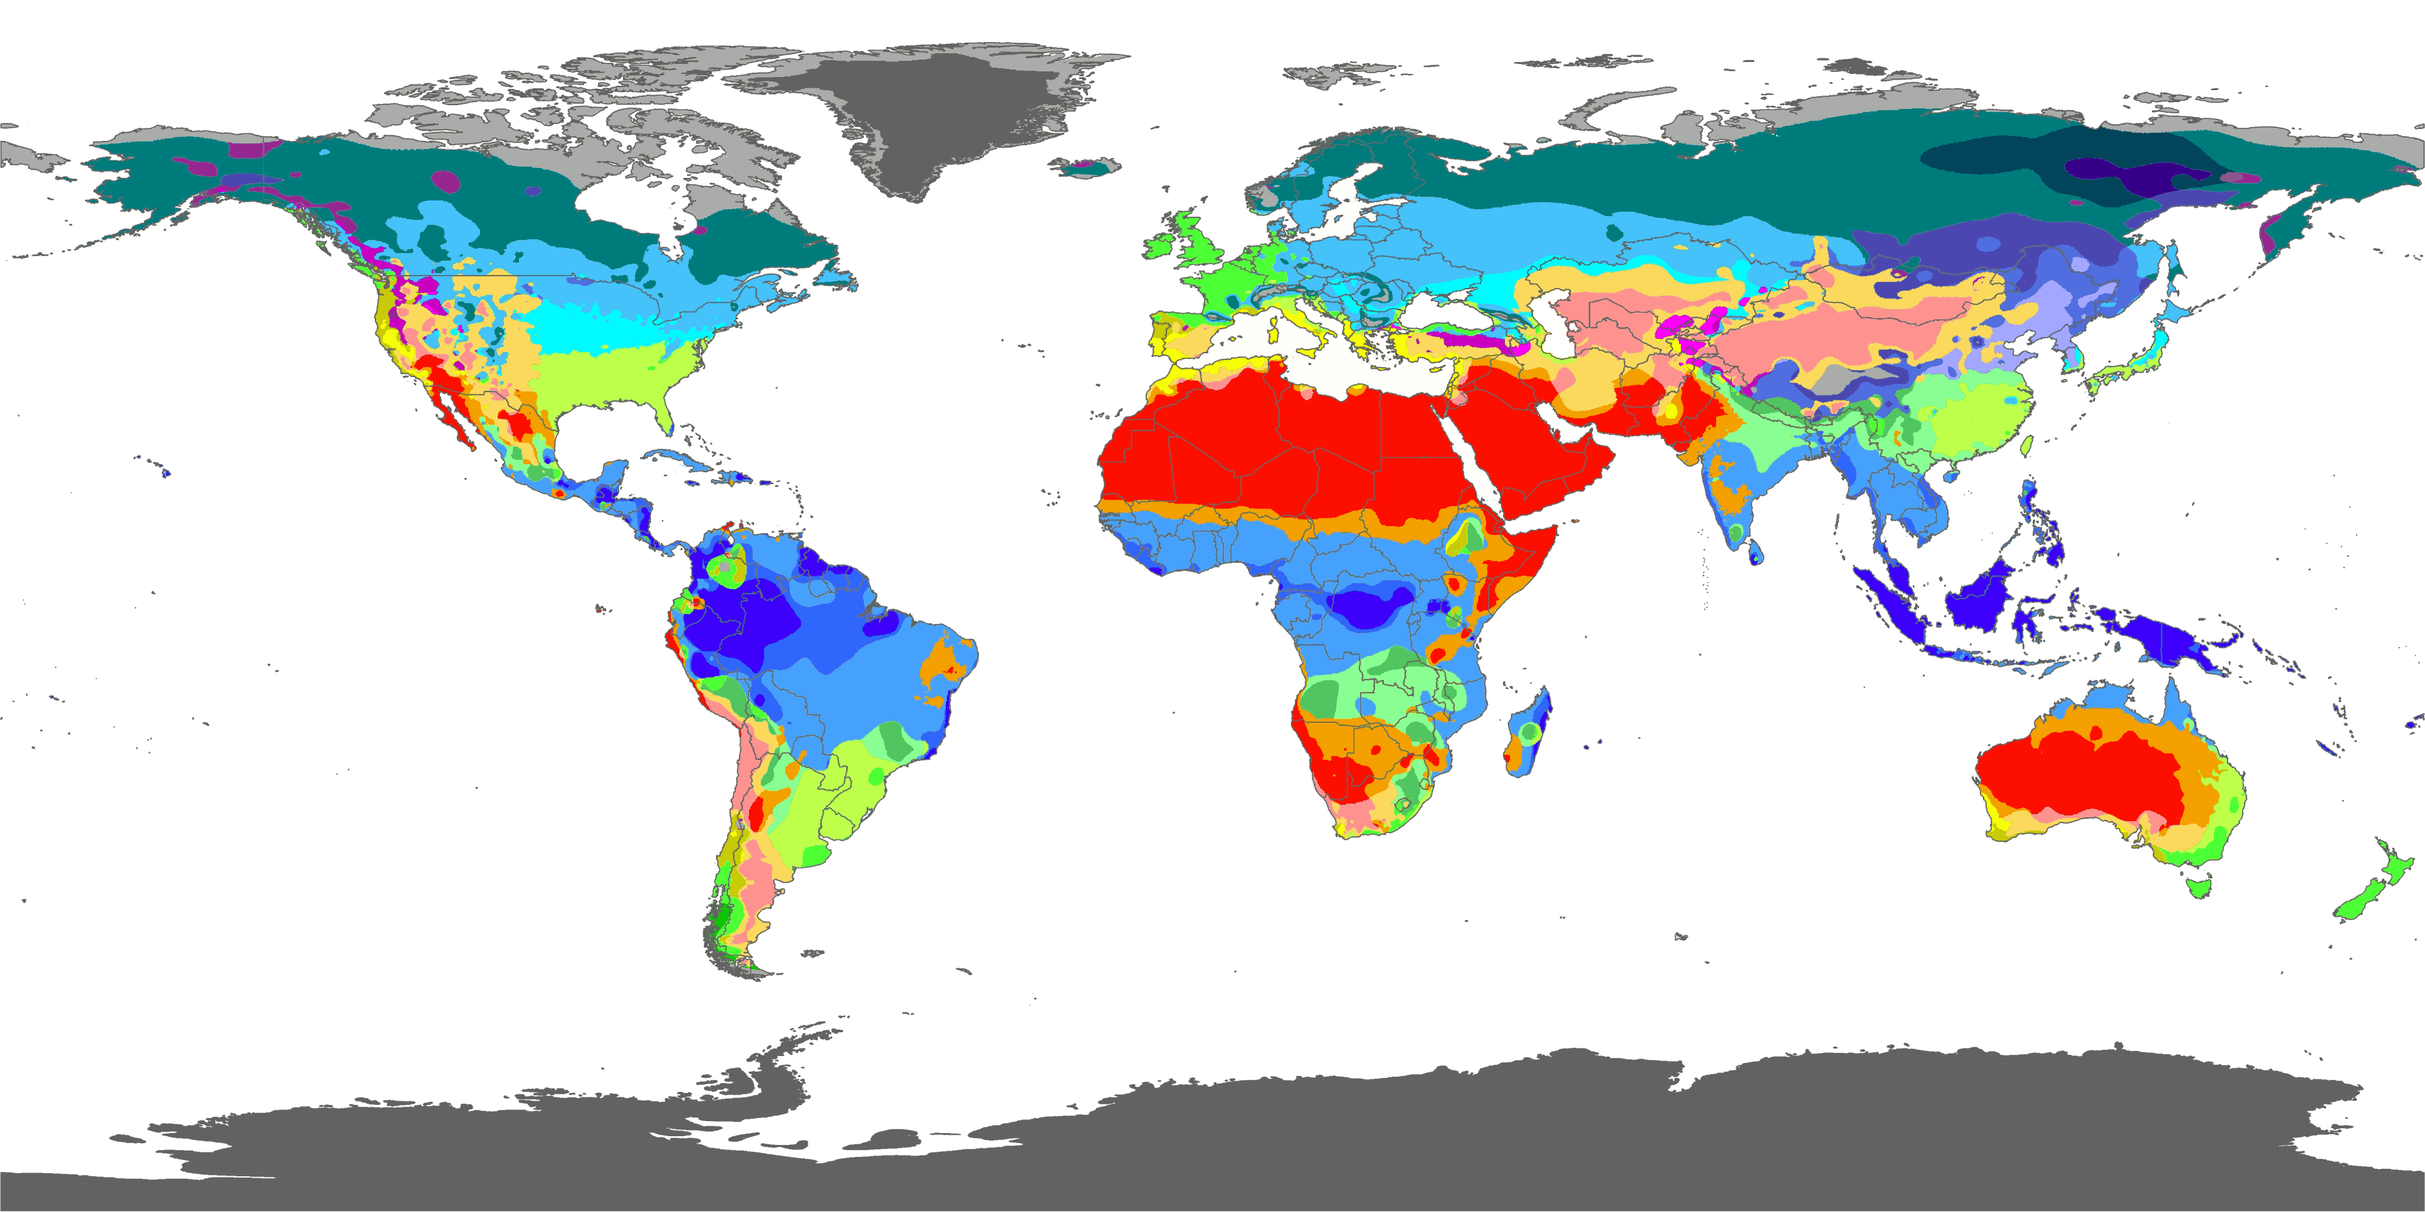
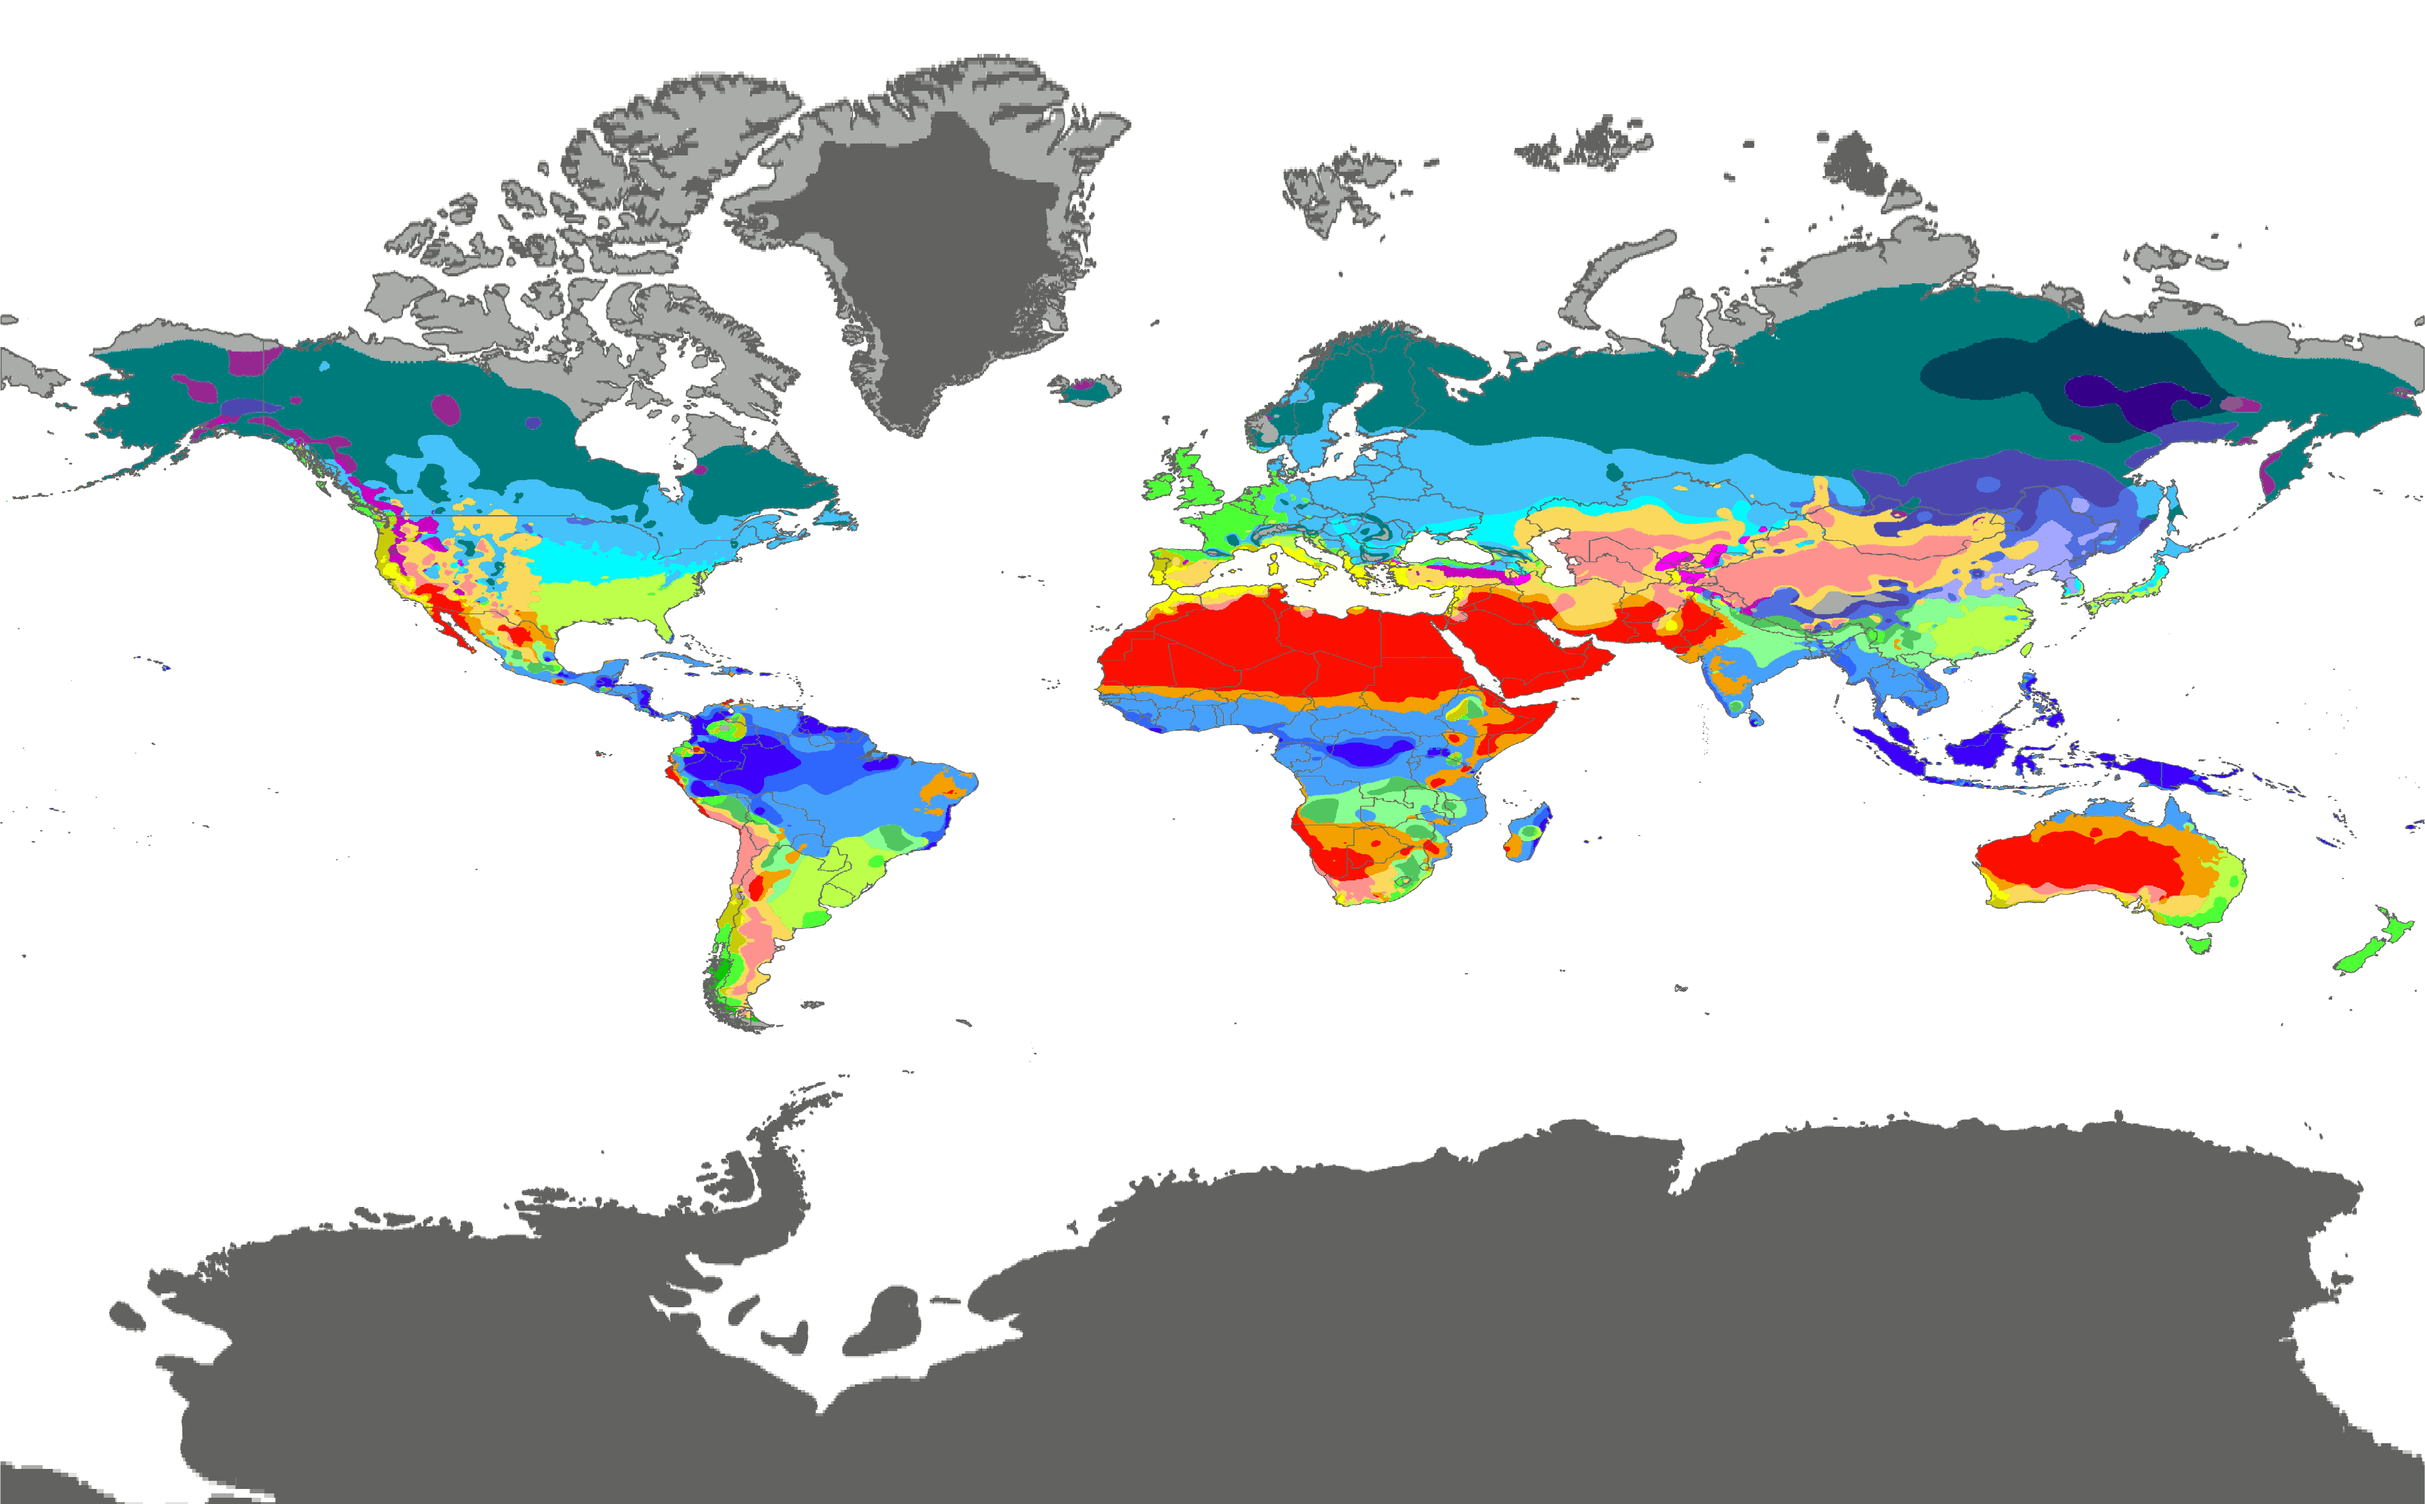
Reproject Köppen overlay image to Web Mercator to match Leaflet's base map
The previous fix cropped the map correctly in equirectangular (plate
carrée) space, verified against reference latitude lines — but
Leaflet's L.imageOverlay just stretches the image linearly between the
projected positions of its NW/SE corners; it does not warp each row to
account for the base map's Web Mercator projection (which stretches
increasingly toward the poles). A linear-latitude source image
therefore drifts further from the true coastline the further it gets
from the equator, which is exactly what showed up when checking the
deployed preview over China/Southeast Asia (~15-40°N): climate-colored
regions spilling into the ocean well south/east of the actual
coastline.

Re-rendered koppen-map.png with each output row resampled from the
correct source latitude via the inverse Mercator formula (clipped to
the standard Web Mercator/EPSG:3857 limit of ±85.0511287798°, matching
Leaflet's default CRS), and updated the overlay bounds to match.
Verified by blending the reprojected image directly against stitched
real OpenStreetMap Mercator tiles (zoom 2, full world) — coastlines now
line up correctly at all latitudes, including the previously-worst-case
high-latitude landmasses (Canada, Greenland, Siberia).

Claude-Session: https://claude.ai/code/session_011LCwKgezdXK4jezpwFFC1F

diff --git a/index.html b/index.html
@@ -477,13 +477,19 @@ const baseTopo = L.tileLayer('https://{s}.tile.opentopomap.org/{z}/{x}/{y}.png',
 const baseSat = L.tileLayer('https://server.arcgisonline.com/ArcGIS/rest/services/World_Imagery/MapServer/tile/{z}/{y}/{x}', {
   maxZoom:19, attribution:'Tiles &copy; Esri'
 });
-// Wikimedia commonsの"World Köppen Map.png"は地図本体に加えてタイトル・凡例まで
-// 1枚の画像に含んでいるため([[-90,-180],[90,180]]の全球範囲としては地図部分が
-// 実際より小さく、余白分だけ座標がずれてしまう)、地図部分だけを切り出した画像
-// (koppen-map.png)をこのリポジトリ内に同梱し、それを使う。
+// もとのWikimedia commons "World Köppen Map.png" は地図本体に加えてタイトル・
+// 凡例まで1枚の画像に含んでいたため地図部分だけを切り出し済み。さらに、
+// L.imageOverlay は画像を単純な矩形として引き伸ばして表示するだけなので、
+// 緯度方向に等間隔(正距円筒図法)の画像をそのまま貼ると、Leafletの標準地図
+// (ウェブメルカトル図法。極に近いほど南北方向に引き伸ばされる)とはズレる
+// ‒ 実際、低緯度〜中緯度のみ見ると合っているように見えても、高緯度になる
+// ほど本来の陸地からずれて表示されていた。そのため画像自体を事前にウェブ
+// メルカトル図法へ変換済み(koppen-map.png)にしてあり、その正しい範囲
+// (Leaflet/OSM標準のウェブメルカトル境界である北緯・南緯85.0511287798度)
+// を指定している。
 const climateOverlay = L.imageOverlay(
   'koppen-map.png',
-  [[-90,-180],[90,180]], {opacity:0.55}
+  [[-85.0511287798,-180],[85.0511287798,180]], {opacity:0.55}
 );
 L.control.layers(
   {"標準地図": baseOSM, "地形(山・川の名前が出る・混雑時は遅め)": baseTopo, "衛星写真": baseSat},
